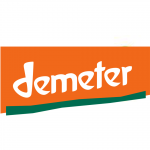
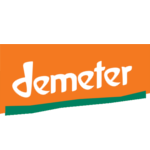
added demeter badge

diff --git a/web/assets/css/index.css b/web/assets/css/index.css
@@ -173,6 +173,9 @@ a {
     #header.small {
       height: 120px; } }
 @media (max-width: 479px) {
+  #demeter-badge img {
+    width: 70px; }
+
   #copy {
     float: none;
     text-align: center; }

diff --git a/web/assets/css/index.sass b/web/assets/css/index.sass
@@ -199,6 +199,10 @@ a
       height: 120px
 
 @media (max-width: 479px)
+  #demeter-badge
+    img
+      width: 70px
+
   #copy
     float: none
     text-align: center
